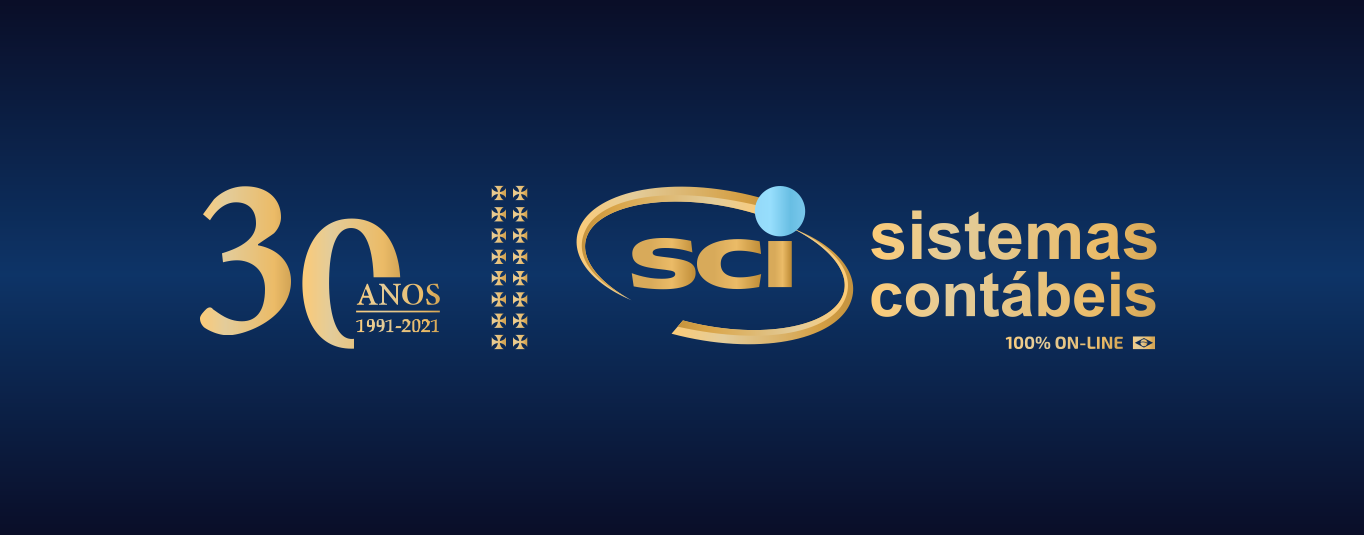
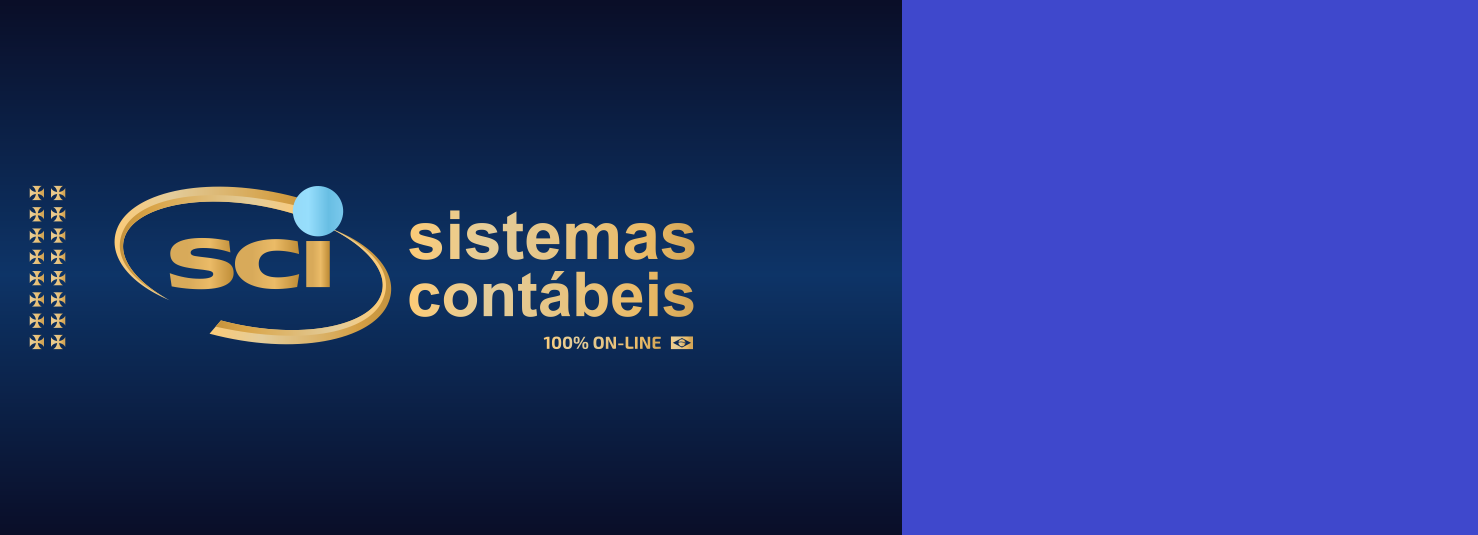
update

diff --git a/style.css b/style.css
@@ -17,10 +17,10 @@ body {
     transform: translate(-50%, -50%);
     width: 70rem;
     background-image: linear-gradient(-105deg,
-    rgba(245,245,245, 0.8) 0%,
-      rgba(245, 245, 245, 0.8)50%,
+    rgba(245,245,245, 1) 0%,
+      rgba(245, 245, 245, 1)50%,
       transparent 50%),
-      url(./54950666.png);
+      url(./1.png);
     background-size: cover;
     background-position: center;
     box-shadow: 1.5rem 1rem .5rem rgba(0,0,0, .5);
@@ -146,19 +146,27 @@ body {
     .caixa-login {
         width: 50rem;
         background-size: contain;
+        background-image: linear-gradient(-105deg,
+        rgba(245,245,245, 1) 0%,
+        rgba(245, 245, 245, 1)50%,
+        transparent 50%),
+        url(./1.png);
+        background-size: auto;
+        background-position: left;
     }
+    
 }
 
 @media (max-width : 850px) {
     .caixa-login {
         width: 40rem;
-        background-size: cover;
-        /* background-position: left; */
-        background-image: linear-gradient(90deg,
-        transparent 0%,
-        transparent 50%,
-        rgba(245, 245, 245, 0.8)50%),
-      url(./54950666.png);
+        background-image: linear-gradient(-105deg,
+        rgba(245,245,245, 1) 0%,
+        rgba(245, 245, 245, 1)50%,
+        transparent 50%),
+        url(./1.png);
+        background-size: auto;
+        background-position: center;
     }
     .form__titulo {
         text-align: center;
@@ -209,12 +217,12 @@ body {
         width: 90vw;
         /* height: 55vh; */
         background-size: cover;
-        background-position: center;
+        background-position: left;
         background-image: linear-gradient(90deg,
         rgba(245, 245, 245, 0.8)0%,
         rgba(245, 245, 245, 0.8)50%,
         rgba(245, 245, 245, 0.8)50%),
-      url(./54950666.png);
+      url(./1.png);
     }
     .saudacao {
         width: 100%;
